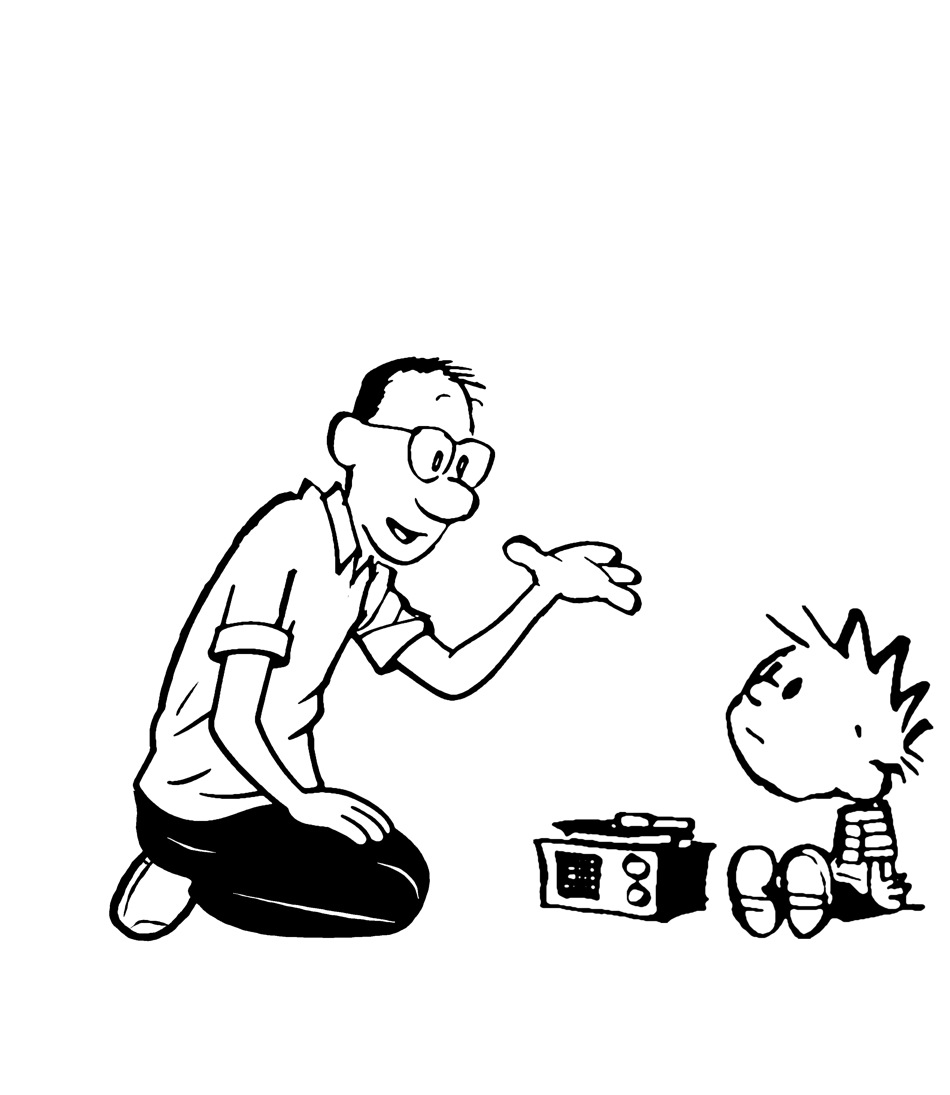
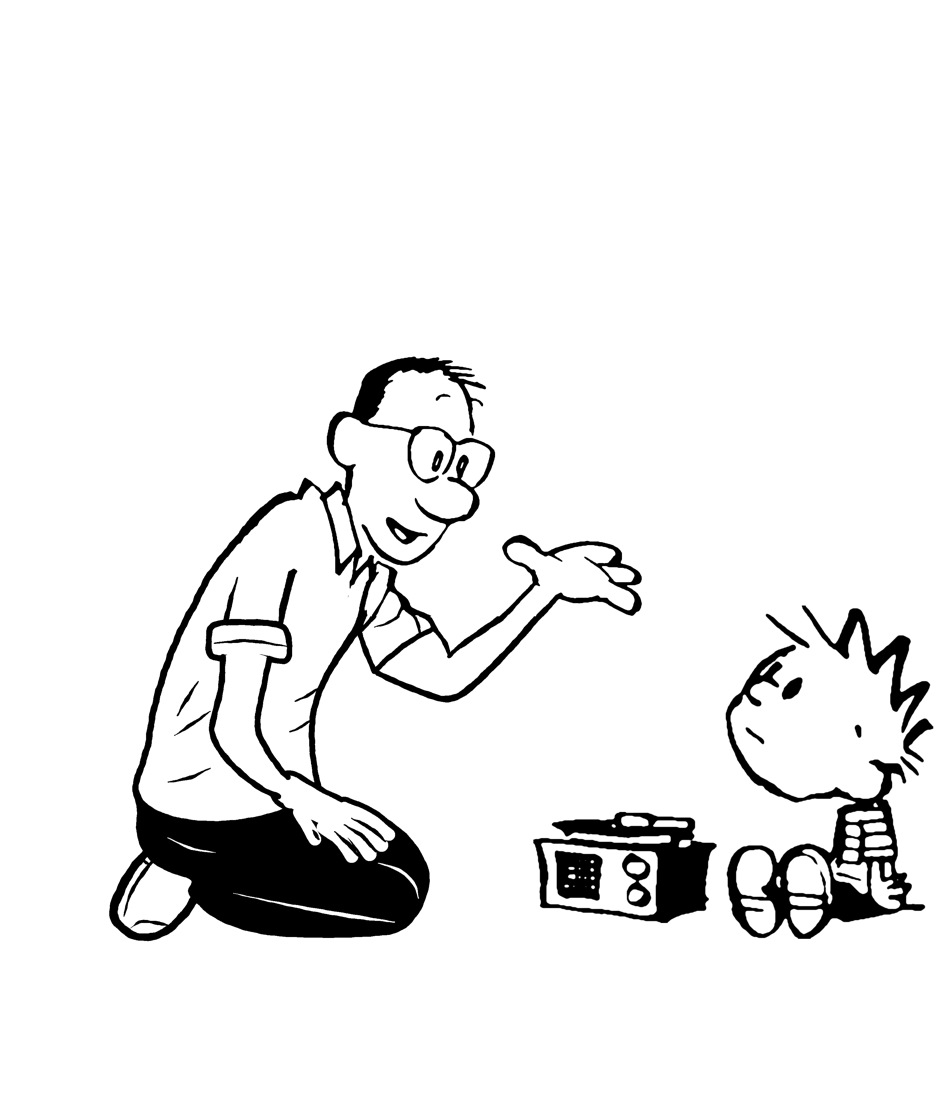
Draw the rest of Dad in panel 3 in code: shirt, arms and hand
Panel 3 no longer uses any generated imagery for Dad. drawn_legs.py now
draws everything of him outside the scanned crop: his back and loose
shirt with its folds, the rolled near sleeve, the hanging arm, the hand
resting on his thigh, the far side of the shirt, the far sleeve and the
gesturing arm down to its elbow, as well as the trousers and shoe. Each
line leaving the crop is continued from where it crosses the crop's
edge. The hand is built like panel 1's: palm and finger capsules inked
as one silhouette, with the gaps between fingers drawn towards the tips.

The generated panel 3 inputs (panel3-lap.png, kneeling-3.png) and the
cuff-joining code that fitted them to the scan are removed.

Changed region(s): [[0.1221, 0.4968, 0.5495, 0.8073]]

diff --git a/panels.html b/panels.html
@@ -10,10 +10,10 @@
 <div class="scroll"><div class="stage" style="--native-width:2834px"><img class="complete" src="assets/full-panels/panel1.png?v=b03ae498a9" width="2834" height="2066" alt="Completed comic panel 1 without dialogue" loading="lazy"><img class="source" src="assets/full-panels/original1.png" style="left:14.114326040931546%;top:0.0%;width:57.657021877205366%" width="1634" height="2066" alt="Original crop of panel 1" hidden></div></div></section><section id="panel-2"><h2>Panel 2</h2><p>Dad points to the record, sitting back on his heels. His trousers and trailing shoe are drawn in code (drawn_legs.py) after panel 1. The player uses the grille and knobs from panel 1.</p>
 <p class="details">3182 × 3660 pixels · original-crop agreement: 99.206% · <a href="assets/full-panels/panel2.png?v=0ca58c433f" download="panel2.png">Download PNG</a> · <a href="assets/full-panels/panel2.png?v=0ca58c433f" target="_blank" rel="noopener">Open full size</a></p>
 <label><input class="show-source" type="checkbox"> Show original crop overlay</label>
-<div class="scroll"><div class="stage" style="--native-width:3182px"><img class="complete" src="assets/full-panels/panel2.png?v=0ca58c433f" width="3182" height="3660" alt="Completed comic panel 2 without dialogue" loading="lazy"><img class="source" src="assets/full-panels/original2.png" style="left:25.1414204902577%;top:0.0%;width:49.7171590194846%" width="1582" height="2060" alt="Original crop of panel 2" hidden></div></div></section><section id="panel-3"><h2>Panel 3</h2><p>Dad rests his hand on his thigh. His trousers, knee and trailing shoe are drawn in code (drawn_legs.py) after panel 1. Calvin looks up at Dad with his feet still toward the player. His figure and the player come from panel 1, enlarged by 56% for this closer view.</p>
-<p class="details">3174 × 3660 pixels · original-crop agreement: 100% · <a href="assets/full-panels/panel3.png?v=669425579c" download="panel3.png">Download PNG</a> · <a href="assets/full-panels/panel3.png?v=669425579c" target="_blank" rel="noopener">Open full size</a></p>
+<div class="scroll"><div class="stage" style="--native-width:3182px"><img class="complete" src="assets/full-panels/panel2.png?v=0ca58c433f" width="3182" height="3660" alt="Completed comic panel 2 without dialogue" loading="lazy"><img class="source" src="assets/full-panels/original2.png" style="left:25.1414204902577%;top:0.0%;width:49.7171590194846%" width="1582" height="2060" alt="Original crop of panel 2" hidden></div></div></section><section id="panel-3"><h2>Panel 3</h2><p>Dad rests his hand on his thigh. Everything of him outside the scanned crop (back, shirt, sleeves, arms, hand, trousers and shoe) is drawn in code (drawn_legs.py). Calvin looks up at Dad with his feet still toward the player. His figure and the player come from panel 1, enlarged by 56% for this closer view.</p>
+<p class="details">3174 × 3660 pixels · original-crop agreement: 100% · <a href="assets/full-panels/panel3.png?v=d90685e566" download="panel3.png">Download PNG</a> · <a href="assets/full-panels/panel3.png?v=d90685e566" target="_blank" rel="noopener">Open full size</a></p>
 <label><input class="show-source" type="checkbox"> Show original crop overlay</label>
-<div class="scroll"><div class="stage" style="--native-width:3174px"><img class="complete" src="assets/full-panels/panel3.png?v=669425579c" width="3174" height="3660" alt="Completed comic panel 3 without dialogue" loading="lazy"><img class="source" src="assets/full-panels/original3.png" style="left:25.20478890989288%;top:0.0%;width:49.59042218021424%" width="1574" height="2060" alt="Original crop of panel 3" hidden></div></div></section><section id="panel-4"><h2>Panel 4</h2><p>Original night scene with the existing completed left side of the bed.</p>
+<div class="scroll"><div class="stage" style="--native-width:3174px"><img class="complete" src="assets/full-panels/panel3.png?v=d90685e566" width="3174" height="3660" alt="Completed comic panel 3 without dialogue" loading="lazy"><img class="source" src="assets/full-panels/original3.png" style="left:25.20478890989288%;top:0.0%;width:49.59042218021424%" width="1574" height="2060" alt="Original crop of panel 3" hidden></div></div></section><section id="panel-4"><h2>Panel 4</h2><p>Original night scene with the existing completed left side of the bed.</p>
 <p class="details">2368 × 2042 pixels · original-crop agreement: 100% · <a href="assets/full-panels/panel4.png?v=4821633204" download="panel4.png">Download PNG</a> · <a href="assets/full-panels/panel4.png?v=4821633204" target="_blank" rel="noopener">Open full size</a></p>
 <label><input class="show-source" type="checkbox"> Show original crop overlay</label>
 <div class="scroll"><div class="stage" style="--native-width:2368px"><img class="complete" src="assets/full-panels/panel4.png?v=4821633204" width="2368" height="2042" alt="Completed comic panel 4 without dialogue" loading="lazy"><img class="source" src="assets/full-panels/original4.png" style="left:16.89189189189189%;top:0.0%;width:66.21621621621621%" width="1568" height="2042" alt="Original crop of panel 4" hidden></div></div></section><footer><p>The source comparisons use the cleaned, smoothed artwork extracted from page 247, with lettering and balloons removed. Panel 4’s signature remains a separate asset. Agreement percentages count every pixel in the original crop, including white background; panel 2 includes the earlier elbow repair. Panel 3 preserves every original ink pixel and directly reuses the original seated Calvin and record player.</p><p><a href="assets/full-panels/verification.json">Pixel comparison results</a> · <a href="assets/full-panels/provenance.json">Artwork sources and rebuild steps</a></p></footer></main>

diff --git a/tools/extensions/reconstruction-v2/drawn_legs.py b/tools/extensions/reconstruction-v2/drawn_legs.py
@@ -1,7 +1,9 @@
-"""Dad's kneeling legs and shoes in panels 2 and 3, drawn programmatically.
+"""Dad's figure outside the scanned close-ups of panels 2 and 3, drawn in code.
 
-The scan stops at Dad's waist in both close-ups, so everything below the
-crop is drawn here in code rather than generated. The drawing follows the
+The scan stops at Dad's waist in panel 2 and at his chest in panel 3, so
+everything of him beyond the crops is drawn here rather than generated:
+his legs and shoes in both, and in panel 3 also his back, shirt, sleeves,
+arms and the hand resting on his thigh. The drawing follows the
 strip itself: Dad's trousers are a flat black silhouette with a few thin
 white folds, as in panel 1, and his shoes are panel 1's white shoes with a
 heavy outline, a sole line just inside it and a small heel notch. Sizes come
@@ -81,18 +83,49 @@ def panel_two(image):
     return composite(image, ink.mask(), region)
 
 
-def polygon_mask(size, points):
-    from PIL import Image, ImageDraw
-    image = Image.new('1', size, 0)
-    ImageDraw.Draw(image).polygon(points, fill=1)
-    return np.asarray(image)
+def outlined(ink, points, width=OUTLINE + 2):
+    """A white shape with a closed ink outline."""
+    ink.fill(points, colour=255, wobble=0)
+    ink.stroke(points, [width, width * 1.1, width * 0.95, width * 1.15, width], closed=True)
+
+
+HAND = [  # (centre line, width): back of the hand, then far to near fingers
+    ([(965, 2640), (1050, 2690), (1130, 2730)], 96),
+    ([(1150, 2700), (1230, 2735), (1300, 2790)], 40),
+    ([(1135, 2722), (1215, 2762), (1275, 2825)], 44),
+    ([(1110, 2745), (1185, 2790), (1235, 2855)], 46),
+    ([(1080, 2765), (1140, 2810), (1175, 2862)], 44),
+    ([(1000, 2715), (1030, 2765), (1052, 2805)], 42),
+]
+
+
+def hand_outline(ink):
+    for points, width in HAND:
+        ink.stroke(points, [width + 2 * OUTLINE], wobble=1.0)
+
+
+def hand_fill(ink):
+    for points, width in HAND:
+        ink.stroke(points, [width], colour=255, wobble=0.6)
+
+
+def hand_gaps(ink):
+    for gap in ([(1175, 2735), (1240, 2770), (1288, 2812)],
+                [(1150, 2757), (1210, 2795), (1255, 2846)],
+                [(1118, 2780), (1162, 2820), (1200, 2862)],
+                [(1045, 2775), (1065, 2805)]):
+        ink.stroke(gap, [3, 12, 14, 6])
 
 
 def panel_three(image):
-    """Dad kneels turned towards us, his near hand resting on his thigh.
+    """Dad kneels turned towards us, gesturing with his far hand and resting
+    the near one on his thigh.
 
-    The shirt and hand above the trousers are kept; the trousers below them,
-    the knee and the trailing shoe are drawn here.
+    Everything of him outside the scanned crop (left of x=800 and below
+    y=2060) is drawn here: his back and shirt, the rolled near sleeve, the
+    hanging arm and hand, the far side of his shirt, the far sleeve and the
+    gesturing arm down to its elbow, and his trousers and shoe. Lines that
+    leave the crop are continued from where they cross its edge.
     """
     w, h = image.size
     ink = Ink((w, h), seed=3)
@@ -100,28 +133,86 @@ def panel_three(image):
     # back towards the left, so we see it foreshortened under his seat.
     shoe(ink, heel=(612, 2846), angle=124, scale=1.08, flip=True, foreshorten=0.6)
     # The seat, the thigh running towards us to the knee and the shin folded
-    # back under it to the cuff. The right-hand contour, from the fingertips
-    # round the knee, is the existing silhouette's.
+    # back under it to the cuff.
     ink.fill([(458, 2580), (446, 2642), (457, 2700), (456, 2740), (456, 2780),
               (466, 2820), (488, 2860), (528, 2896), (590, 2924), (640, 2944),
               (628, 2980), (668, 3030), (720, 3070), (800, 3104), (900, 3126),
               (1050, 3134), (1200, 3132), (1317, 3120), (1357, 3100), (1394, 3060),
               (1416, 3020), (1429, 2980), (1436, 2940), (1430, 2900), (1412, 2860),
-              (1382, 2820), (1362, 2800), (1337, 2780), (1306, 2740), (1268, 2700),
-              (1201, 2660), (1100, 2690), (800, 2700), (600, 2640)], wobble=1.2)
-    # Folds: the thigh's underside over the shin, round the knee and the hip.
+              (1376, 2806), (1310, 2748), (1220, 2700), (1120, 2660), (900, 2660),
+              (600, 2640)], wobble=1.2)
     ink.stroke([(1318, 3082), (1160, 3060), (960, 3024), (780, 2986)],
                [3, 14, 12, 6, 2], colour=255, wobble=0.8)
     ink.stroke([(1262, 2884), (1336, 2910), (1384, 2956), (1398, 3002)],
                [2, 10, 11, 3], colour=255, wobble=0.6)
     ink.stroke([(560, 2800), (640, 2836), (720, 2850)],
                [2, 9, 2], colour=255, wobble=0.6)
-    # Keep the shirt above its hem and the whole hand.
-    keep = polygon_mask((w, h), [
-        (0, 0), (w, 0), (w, 2790), (1372, 2790), (1352, 2852), (1150, 2852),
-        (1090, 2812), (1000, 2772), (900, 2756), (780, 2752), (700, 2752),
-        (620, 2746), (570, 2724), (536, 2702), (512, 2682), (490, 2662),
-        (477, 2642), (0, 2642)])
+
+    # The shirt, hanging loose over the trousers. Its back runs on from the
+    # shoulder where it leaves the crop at (800, 1796); its far side from the
+    # placket line crossing the crop's foot at x=1210.
+    back = [(830, 1752), (800, 1796), (750, 1855), (690, 1940), (650, 2020),
+            (610, 2095), (562, 2210), (530, 2310), (508, 2400), (494, 2490),
+            (470, 2570), (452, 2632), (462, 2672)]
+    hem = [(452, 2640), (474, 2684), (522, 2718), (592, 2742), (690, 2754),
+           (800, 2748), (900, 2728), (980, 2700)]
+    far_side = [(1217, 2000), (1210, 2059), (1190, 2105), (1150, 2165),
+                (1105, 2235), (1068, 2310), (1046, 2390), (1042, 2470),
+                (1050, 2560), (1068, 2650)]
+    # White grounds first, so no fill covers another part's line.
+    ink.fill(back + hem[1:] + [(1070, 2660)] + far_side[::-1] + [(1100, 1700)],
+             colour=255, wobble=0)
+    ink.fill([(1200, 2110), (1250, 2242), (1330, 2282), (1480, 2334), (1570, 2300),
+              (1799, 2059), (1680, 2059), (1500, 2192), (1452, 2100), (1419, 2059),
+              (1210, 2059)], colour=255, wobble=0)
+    ink.stroke(back, [24, 22, 22, 21, 20])
+    ink.stroke(hem, [20, 21, 19, 18])
+    ink.stroke(far_side, [30, 26, 21, 20, 19, 19])
+    # The placket's right-hand line runs down into the far side.
+    ink.stroke([(1282, 2000), (1249, 2059), (1225, 2088), (1198, 2112)], [15, 15, 14])
+    # Folds in the loose shirt.
+    for fold, widths in (([(662, 2278), (626, 2334), (592, 2392)], [3, 14, 4]),
+                         ([(702, 2378), (642, 2420), (584, 2458)], [3, 13, 3]),
+                         ([(702, 2568), (632, 2600), (562, 2614)], [3, 13, 3]),
+                         ([(1064, 2300), (1022, 2328), (986, 2344)], [3, 12, 3]),
+                         ([(1042, 2404), (1002, 2432), (968, 2446)], [3, 11, 3])):
+        ink.stroke(fold, widths)
+
+    # The far sleeve and the gesturing arm. The arm's two edges and the
+    # sleeve's top continue the lines crossing the crop's foot at x=1680,
+    # 1799 and 1419.
+    ink.stroke([(1198, 2106), (1222, 2176), (1250, 2242)], [16, 18, 17])
+    ink.stroke([(1250, 2244), (1300, 2198), (1370, 2144), (1442, 2104)], [17, 18, 16])
+    ink.stroke([(1360, 2030), (1400, 2049), (1419, 2059), (1440, 2076), (1452, 2102)],
+               [19, 19, 18, 16])
+    ink.stroke([(1372, 2045), (1384, 2059), (1396, 2086), (1404, 2120)], [12, 11, 6])
+    ink.stroke([(1345, 2000), (1330, 2059), (1300, 2080), (1252, 2096)], [10, 10, 9, 3])
+    ink.stroke([(1452, 2102), (1486, 2148), (1502, 2192)], [16, 15, 12])
+    ink.stroke([(1738, 2000), (1680, 2059), (1600, 2116), (1532, 2164), (1500, 2194)],
+               [22, 22, 20, 18, 12])
+    ink.stroke([(1262, 2250), (1330, 2282), (1420, 2318), (1480, 2336), (1524, 2330),
+                (1572, 2298), (1640, 2234), (1722, 2148), (1799, 2059), (1846, 2005)],
+               [18, 20, 21, 22, 22, 21, 22, 23])
+
+    # The near sleeve, rolled into a cuff above the elbow.
+    ink.stroke([(794, 1930), (772, 2000), (752, 2090)], [3, 16, 18])
+    ink.stroke([(953, 2000), (942, 2059), (936, 2094)], [20, 20, 18])
+    outlined(ink, [(708, 2094), (830, 2080), (948, 2098), (966, 2150), (958, 2206),
+                   (850, 2194), (706, 2192), (698, 2142)])
+    ink.stroke([(716, 2150), (830, 2142), (956, 2160)], [3, 11, 10, 3])
+    # The near arm hangs from the cuff, bends a little at the elbow and
+    # reaches forward to the thigh.
+    left = [(745, 2196), (738, 2300), (714, 2400), (708, 2445), (734, 2506),
+            (800, 2580), (880, 2640), (930, 2662)]
+    right = [(900, 2202), (880, 2300), (864, 2380), (862, 2440), (898, 2516),
+             (946, 2582), (962, 2598)]
+    hand_outline(ink)
+    ink.fill(left + [(960, 2700), (1010, 2690)] + right[::-1], colour=255, wobble=0)
+    hand_fill(ink)
+    ink.stroke(left, [19, 20, 19, 20, 18])
+    ink.stroke(right, [19, 19, 20, 18])
+    hand_gaps(ink)
+
     yy, xx = np.mgrid[:h, :w]
-    region = ~keep & (xx < 1480)
+    region = ((xx < 800) | (yy >= 2060)) & (xx < 1900) & ~((xx >= 1700) & (yy >= 2600))
     return composite(image, ink.mask(), region)

diff --git a/tools/extensions/reconstruction-v2/build_review.py b/tools/extensions/reconstruction-v2/build_review.py
@@ -10,7 +10,7 @@ for r in records:
     n=r['panel'];w,h=r['size'];x,y=r['originalOffset'];ow,oh=r['originalSize']
     digest=hashlib.sha256((OUT/f'panel{n}.png').read_bytes()).hexdigest()[:10]
     match=f"{100*r['originalMatchFraction']:.3f}".rstrip('0').rstrip('.')
-    note={1:'Original central artwork with the existing completed left extension.',2:'Dad points to the record, sitting back on his heels. His trousers and trailing shoe are drawn in code (drawn_legs.py) after panel 1. The player uses the grille and knobs from panel 1.',3:'Dad rests his hand on his thigh. His trousers, knee and trailing shoe are drawn in code (drawn_legs.py) after panel 1. Calvin looks up at Dad with his feet still toward the player. His figure and the player come from panel 1, enlarged by 56% for this closer view.',4:'Original night scene with the existing completed left side of the bed.'}[n]
+    note={1:'Original central artwork with the existing completed left extension.',2:'Dad points to the record, sitting back on his heels. His trousers and trailing shoe are drawn in code (drawn_legs.py) after panel 1. The player uses the grille and knobs from panel 1.',3:'Dad rests his hand on his thigh. Everything of him outside the scanned crop (back, shirt, sleeves, arms, hand, trousers and shoe) is drawn in code (drawn_legs.py). Calvin looks up at Dad with his feet still toward the player. His figure and the player come from panel 1, enlarged by 56% for this closer view.',4:'Original night scene with the existing completed left side of the bed.'}[n]
     parts.append(f'''<section id="panel-{n}"><h2>Panel {n}</h2><p>{note}</p>
 <p class="details">{w} × {h} pixels · original-crop agreement: {match}% · <a href="assets/full-panels/panel{n}.png?v={digest}" download="panel{n}.png">Download PNG</a> · <a href="assets/full-panels/panel{n}.png?v={digest}" target="_blank" rel="noopener">Open full size</a></p>
 <label><input class="show-source" type="checkbox"> Show original crop overlay</label>
@@ -28,7 +28,7 @@ document.querySelector('#opacity').addEventListener('input',e=>document.querySel
 document.querySelectorAll('.show-source').forEach(input=>input.addEventListener('change',()=>input.closest('section').querySelector('.source').hidden=!input.checked));
 </script></body></html>'''
 (ROOT/'panels.html').write_text(page)
-provenance={'source':'The Indispensable Calvin and Hobbes, local scanned PDF','sourcePage':247,'stripDate':'1990-06-05','sourceProcessing':'Existing build_assets.py ink/background extraction, lettering removal, and ART_SCALE=2 smoothing.','references':{'8':'Two-knee pose with folded shins and trailing shoes, mirrored for the scene','110':'Bottom strip, panels 3 and 4. Folded-leg reference and directly sampled sneaker ink.','226':'Compact folded lower legs and shoes','237':'Crouching hip, diagonal thigh and torso','247':'Original four panels, seated Calvin, portable record player'},'generation':'Built-in imagegen supplied panel 3\'s lower shirt and hand (see prompts-page-110.json in tools/extensions/reconstruction-v2/). Dad\'s trousers and shoes below both close-up crops are drawn programmatically by drawn_legs.py with the ink.py brush kit, modelled on panel 1\'s trousers and shoes and the kneeling Dad on page 8.','directReuse':{'1':'Entire cleaned original panel; existing left extension retained.','2':'Prior repaired upper artwork, including original head, hands, record and Calvin expression. The legs and shoe below the crop are drawn by drawn_legs.py. The grille and paired knobs come from panel 1, with the seated pose and player as drawing guides.','3':'Entire cleaned scan crop retained. Lower shirt and hand generated; trousers, knee and shoe drawn by drawn_legs.py. Calvin and the player from panel 1 are enlarged 1.56×. The original upward-looking head joins the reflected seated body at its collar. The shoes point toward the player in both close-ups.','4':'Entire cleaned original night panel; existing left bed extension retained.'},'scaleCheck':{'metric':'Calvin head width / Dad head width, thresholded ink at full resolution','panel2':[602,493],'panel3':[693,562]},'rebuild':['.venv/bin/python tools/extensions/reconstruction-v2/prepare_inputs.py','.venv/bin/python tools/extensions/reconstruction-v2/assemble.py','.venv/bin/python tools/extensions/reconstruction-v2/build_review.py'],'outputs':records}
+provenance={'source':'The Indispensable Calvin and Hobbes, local scanned PDF','sourcePage':247,'stripDate':'1990-06-05','sourceProcessing':'Existing build_assets.py ink/background extraction, lettering removal, and ART_SCALE=2 smoothing.','references':{'8':'Two-knee pose with folded shins and trailing shoes, mirrored for the scene','110':'Bottom strip, panels 3 and 4. Folded-leg reference and directly sampled sneaker ink.','226':'Compact folded lower legs and shoes','237':'Crouching hip, diagonal thigh and torso','247':'Original four panels, seated Calvin, portable record player'},'generation':'No generated imagery remains in Dad\'s figure: everything of him outside the panel 2 upper and the panel 3 crop is drawn programmatically by drawn_legs.py with the ink.py brush kit, modelled on panel 1\'s trousers and shoes and the kneeling Dad on page 8.','directReuse':{'1':'Entire cleaned original panel; existing left extension retained.','2':'Prior repaired upper artwork, including original head, hands, record and Calvin expression. The legs and shoe below the crop are drawn by drawn_legs.py. The grille and paired knobs come from panel 1, with the seated pose and player as drawing guides.','3':'Entire cleaned scan crop retained. Dad outside the crop (back, shirt, both sleeves, the gesturing arm\'s elbow, the resting arm and hand, trousers and shoe) is drawn by drawn_legs.py. Calvin and the player from panel 1 are enlarged 1.56×. The original upward-looking head joins the reflected seated body at its collar. The shoes point toward the player in both close-ups.','4':'Entire cleaned original night panel; existing left bed extension retained.'},'scaleCheck':{'metric':'Calvin head width / Dad head width, thresholded ink at full resolution','panel2':[602,493],'panel3':[693,562]},'rebuild':['.venv/bin/python tools/extensions/reconstruction-v2/prepare_inputs.py','.venv/bin/python tools/extensions/reconstruction-v2/assemble.py','.venv/bin/python tools/extensions/reconstruction-v2/build_review.py'],'outputs':records}
 (OUT/'provenance.json').write_text(json.dumps(provenance,indent=2)+'\n')
 (ROOT/'output').mkdir(exist_ok=True)
 with zipfile.ZipFile(ROOT/'output/full-panels.zip','w',zipfile.ZIP_DEFLATED) as bundle:

diff --git a/tools/extensions/reconstruction-v2/assemble.py b/tools/extensions/reconstruction-v2/assemble.py
@@ -6,7 +6,6 @@ import sys
 import numpy as np
 from PIL import Image, ImageChops, ImageDraw, ImageFont, ImageOps
 from scipy import ndimage
-from scipy.interpolate import PchipInterpolator
 
 sys.path.insert(0, str(Path(__file__).resolve().parents[2]))
 sys.path.insert(0, str(Path(__file__).resolve().parent))
@@ -100,42 +99,10 @@ def scaled_inserts():
     return result
 
 
-def join_cuff(staged):
-    """Join the five cut brushstrokes of the scanned shirt to the new lower cuff."""
-    draw = ImageDraw.Draw(staged)
-    draw.rectangle((555, 1030, 745, 1054), fill=255)
-    draw.rectangle((457, 1030, 502, 1038), fill=255)
-    # (row, left edge, right edge) in the original scan's pixel units.
-    # The first and last widths come from the ink on either side of the join.
-    strokes = [
-        [(1029, 466, 475), (1034, 463, 473), (1039, 460, 472)],
-        [(1036, 490, 491), (1039, 487, 493)],
-        [(1029, 597, 612), (1036, 594, 607), (1046, 586, 599), (1055, 580, 594)],
-        [(1029, 621, 627), (1038, 614, 622), (1048, 603, 611), (1054, 593, 599)],
-        [(1029, 662, 666), (1037, 658, 663), (1045, 650, 655)],
-        [(1029, 688, 692), (1033, 695, 699), (1036, 696, 701)],
-        [(1029, 701, 720), (1033, 697, 717), (1041, 708, 722), (1055, 705, 725)],
-        [(1030, 704, 713), (1036, 677, 695), (1045, 642, 657), (1055, 612, 624)],
-    ]
-    for stroke in strokes:
-        rows, edges = np.array(stroke)[:, 0], np.array(stroke)[:, 1:]
-        interpolator = PchipInterpolator(rows, edges)
-        for row in range(max(rows[0], 1030), rows[-1] + 1):
-            left, right = np.rint(interpolator(row)).astype(int)
-            draw.line((left, row, right, row), fill=0)
-
-
 def panel_three(original):
+    # Everything of Dad outside the scan is drawn by drawn_legs.panel_three.
     staged = Image.new('L', (1587, 1830), 255)
-    lap = drawing('panel3-lap.png', (1530, 1120))
-    # Isolate Dad. Reinsert the actual child and player from the scan below.
-    staged.paste(lap.crop((0, 0, 1090, 750)), (40, 525))
-    staged.paste(lap.crop((0, 750, 735, 1120)), (40, 1275))
-    # The lower patch begins halfway down the shirt, clear of the original crop.
-    staged.paste(Image.open(HERE / 'kneeling-3.png'), (40, 1185))
-    raw = Image.open(HERE / 'original-3.png')
-    staged.paste(raw, (400, 0))
-    join_cuff(staged)
+    staged.paste(Image.open(HERE / 'original-3.png'), (400, 0))
     result = b.smooth(np.asarray(staged) < 128)
     result.paste(original, (800, 0))
     child, player = scaled_inserts()

diff --git a/README.md b/README.md
@@ -30,10 +30,10 @@ The [completed panel artwork](panels.html), at
 <http://localhost:8765/panels.html>, includes all four full-resolution exports
 and an adjustable overlay of each original crop. The reconstructed lower scenes
 are in `assets/full-panels/`; their source comparisons and rebuild commands are
-recorded in `assets/full-panels/provenance.json`. Dad's kneeling legs and
-shoes in panels 2 and 3 are drawn in code by
-`tools/extensions/reconstruction-v2/drawn_legs.py`, after panel 1's trousers
-and shoes. These artwork exports are
+recorded in `assets/full-panels/provenance.json`. Everything of Dad below
+the panel 2 crop, and outside the panel 3 crop, is drawn in code by
+`tools/extensions/reconstruction-v2/drawn_legs.py`, after his drawing in
+panel 1. These artwork exports are
 separate from the editor's layout assets.
 
 The [Unicode sampler](sampler.html), at <http://localhost:8765/sampler.html>,
